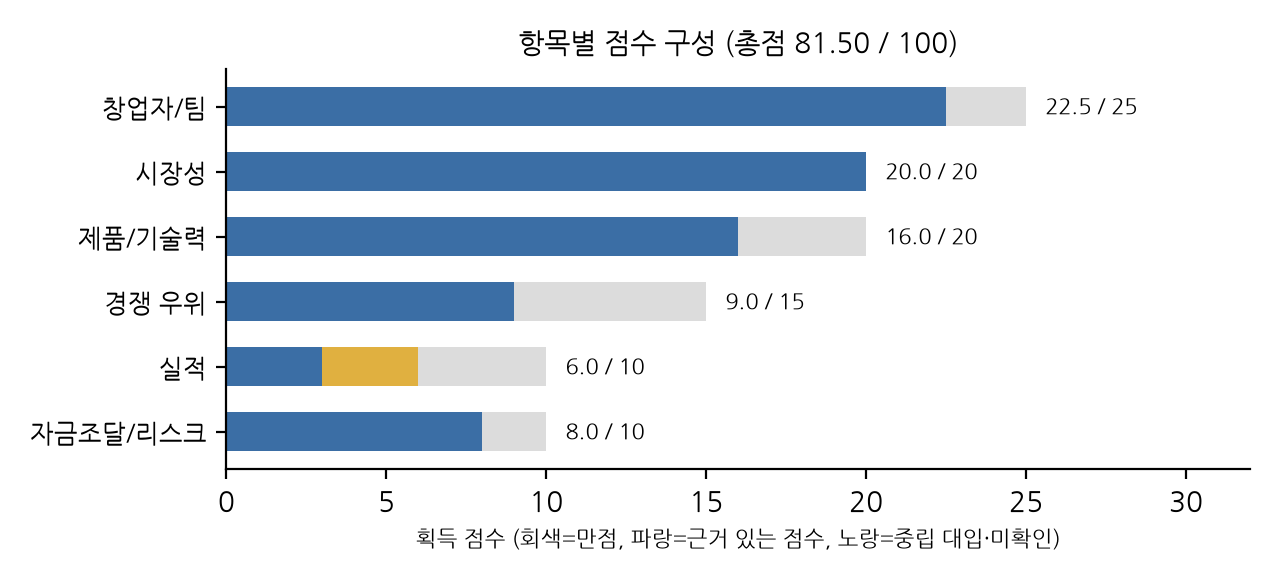
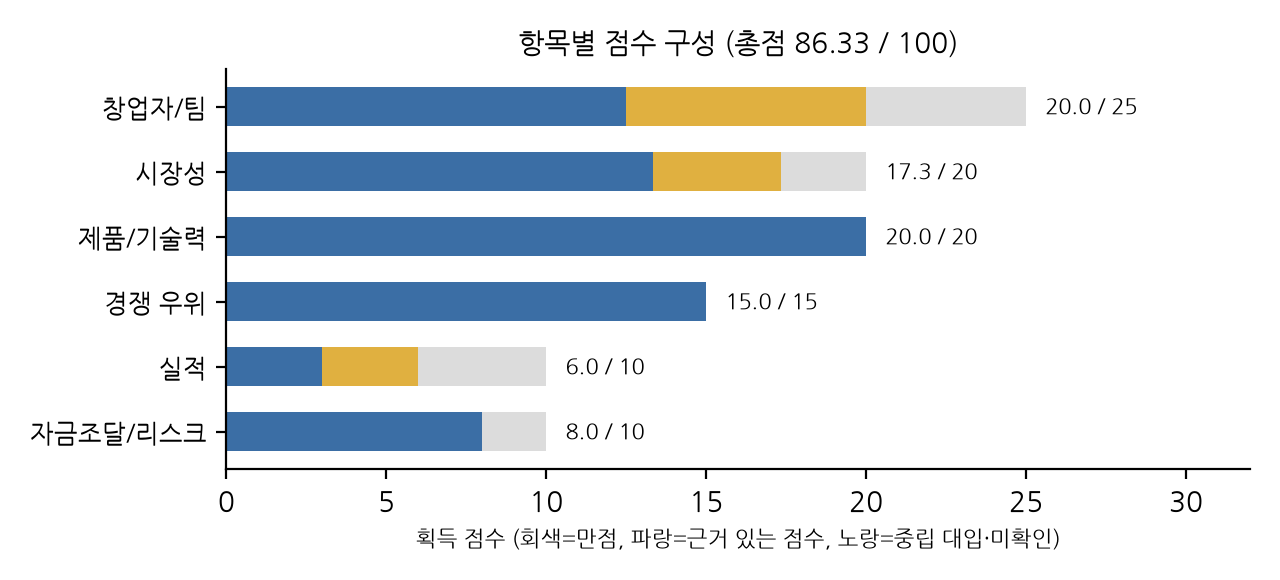
chore(outputs): sync tracked report markdown and chart with the submitted run

diff --git a/outputs/RAG-Output_울산캠퍼스-4반_박연제+이정인+정예지.md b/outputs/RAG-Output_울산캠퍼스-4반_박연제+이정인+정예지.md
@@ -1,34 +1,36 @@
 # SUMMARY
 
-**하이퍼엑셀**(대한민국, AI 칩) · 총점 **81.50/100** · 판정 **투자** · 평가 기준일 2026-09-30
+**아이에이치더블유(iHW)**(대한민국, AI 칩) · 총점 **86.33/100** · 판정 **투자** · 평가 기준일 2026-09-30
 
-하이퍼엑셀은 2023년 설립된 한국 AI 반도체 팹리스 스타트업으로, LLM 추론 특화 AI 가속기인 LPU를 개발하여 삼성 4나노 공정에서 '베르다' 칩을 양산 중이다. LPDDR5X 메모리를 활용해 엔비디아 대비 가격 1/10, 전력 사용량 1/3 수준의 전력 효율을 목표로 하며, 크래프톤 등 전략적 투자자들의 대규모 투자를 유치해 2026년 기준 약 8000억 원의 기업 가치를 인정받았다. 다만, 구체적인 성능 지표와 소프트웨어 생태계, 고객 적용 사례는 확인되지 않아 추가 검증이 필요하다. 글로벌 AI 칩 시장은 2026년 약 1,228억 달러 규모이며, 2026~2035년 연평균 28.8% 성장할 전망이다[1][2][3].
+아이에이치더블유(iHW)는 2024년 설립된 대한민국 초저전력 AI 반도체 팹리스 기업으로, 뉴로모픽 기반 아날로그 컴퓨트인메모리(ACiM) 기술을 적용한 엣지 AI 칩 양산과 LLM 칩 시제품 생산에 주력하고 있다. 2026년 시리즈A 투자 유치(약 640억 원)와 정부 지원금 확보를 통해 기술 검증과 상용화를 진행 중이며, 2027년 본격 양산을 목표로 한다. AI 반도체 시장은 글로벌 고대역폭메모리(HBM) 시장을 포함해 2022~2027년 연평균 36.3% 성장할 것으로 전망되나, iHW 타깃 시장 규모는 구체적 수치가 확인되지 않는다. iHW는 삼성전자, SK하이닉스, 인텔 출신 베테랑 인력과 51건 특허, 한국전자기술연구원과 협력 등으로 경쟁 우위를 확보했으나, 구체적 성능 지표와 소프트웨어 생태계 정보는 미공개다. 총점 86.33점으로 투자 적합 판정을 받았다.[1][2][3][4][5]
 
 ## 1. 기업 및 사업 개요
 
-하이퍼엑셀은 대한민국의 AI 반도체 팹리스 스타트업으로, 2026년 기준 시리즈 B 투자 라운드를 완료했으며 총 2000억 원 규모의 자금을 확보했다. 주요 전략적 투자자로 크래프톤이 참여했으며, 기업 가치는 약 8000억 원(약 593백만 달러)으로 평가받고 있다. 핵심 제품은 LLM 추론에 특화된 AI 가속기 LPU로, 삼성전자 4나노 공정에서 '베르다' 칩을 양산 중이다. LPDDR5X 메모리를 활용해 비용과 전력 효율을 크게 개선하는 기술적 강점을 보유하고 있다. 다만, 구체적인 칩 성능 수치와 소프트웨어 생태계, 고객 적용 사례는 공개되지 않아 추가 검증이 필요하다[1][2].
+아이에이치더블유(iHW)는 2024년 대한민국에서 설립된 초저전력 AI 반도체 팹리스 기업이다. 뉴로모픽 기반 아날로그 컴퓨트인메모리(ACiM) 기술을 핵심으로 하여, 단일 칩으로 외장 메모리 없이 작동하는 엣지 AI 칩과 LLM 칩 시제품을 개발 중이다. 2026년 시리즈A 투자 유치와 정부 지원금 1000만 달러 이상 확보를 통해 기술 검증과 상용화를 추진하며, 2027년 본격 양산을 목표로 한다. 회사는 삼성전자, SK하이닉스, 인텔 출신 베테랑 임원과 엔지니어들이 주축이며, 한국전자기술연구원과 협력해 휴머노이드 저전력 SoC 공동 개발을 진행 중이다. 구체적인 칩 성능 지표와 소프트웨어 생태계에 대한 정보는 확인되지 않았다.[1][5]
 
 ## 2. 팀·기술 및 제품 경쟁력
 
-창업자는 KAIST 전기전자공학부 교수 출신으로, 2012년부터 2019년까지 마이크로소프트에서 하드웨어 엔지니어로 근무한 경험이 있다. 이후 KAIST에서 석박사 연구생들과 함께 하이퍼엑셀을 창업해 상업화 및 고객 현장 경험이 충분하다. 기술적으로는 LLM 추론에 특화된 LPU를 개발했으며, 고대역폭 메모리 대신 저전력 LPDDR5X 메모리를 사용해 엔비디아 대비 가격 1/10, 전력 사용량 1/3 수준의 전력 효율을 목표로 한다. 삼성 4나노 공정에서 500㎟ 이상의 대형 칩을 양산 중이며, 크래프톤 등 전략적 투자자들의 대규모 투자를 통해 안정적 자금 확보와 수요처 확보가 기대된다. 다만, 구체적인 성능 지표와 소프트웨어 생태계, 고객 PoC 정보는 확인되지 않아 추가 검증이 필요하다[2][4][5].
+iHW는 삼성전자, SK하이닉스, 인텔 등 글로벌 반도체 기업 출신 베테랑 임원과 엔지니어들이 2024년 6월 설립한 팀으로, 상용화 경험과 고객 현장 경험이 풍부하다. 기술적으로는 뉴로모픽 컴퓨팅 방식의 아날로그 컴퓨트인메모리(ACiM) 기술을 적용해 기존 디지털 NPU 대비 전력 소비와 발열 문제를 극복하는 독자적 기술을 보유하고 있다. 단일 칩으로 외장 메모리 없이 작동하며, 성숙 공정에서도 구현 가능해 제조 비용 절감과 냉각장치 없이 시스템 구성이 가능하다. 51건의 특허(등록 19건)를 보유하고 있으며, 자체 컴파일러·SDK·제품 스택을 개발 중이다. 한국전자기술연구원과 협력해 휴머노이드 저전력 SoC 기술을 공동 개발하며 기술 검증과 상용화를 진행 중이다. 정부 지원금 1000만 달러 이상 확보 및 국책 연구 과제 수행으로 기술 신뢰성을 높이고 있다. 다만, 구체적인 칩 성능(TOPS, 전력효율)과 소프트웨어 생태계 정보는 공개되지 않았다.[1][3][4][5]
 
 ## 3. 시장성 및 경쟁 환경
 
-글로벌 AI 칩 시장은 2026년 약 1,228억 달러 규모이며, 2026년부터 2035년까지 연평균 28.8%의 고성장이 예상된다. 주요 수요처는 데이터센터용 GPU와 엣지용 맞춤형 AI 반도체이며, NVIDIA가 데이터센터 GPU 시장을 92% 점유하는 등 시장을 주도한다. 국내외에서는 정부의 대규모 R&D 투자와 공공분야 국산 NPU 도입 정책이 수요를 촉진하고 있다. 하이퍼엑셀은 국내 AI 반도체 팹리스 스타트업 중 퓨리오사AI, 리벨리온, 넥스트리벨리온과 경쟁하며, LLM 추론 특화 LPU 개발과 삼성 4나노 공정 양산, LPDDR5X 메모리 활용으로 비용과 전력 효율을 크게 개선한 점이 기술적 강점이다. 크래프톤 등 전략적 투자자들의 대규모 투자 유치로 기업 가치가 약 8000억 원에 달한다. 다만, 구체적 성능 지표와 소프트웨어 생태계, 고객 적용 사례는 공개되지 않아 추가 검증이 필요하며, 경쟁사와의 상세 비교 데이터는 부족하다[3][6][7][8].
+iHW는 뉴로모픽 기반 아날로그 컴퓨트인메모리(ACiM) 기술을 적용해 단일 칩으로 외장 메모리 없이 작동하며, 발열이 적고 성숙 공정에서도 구현 가능한 점에서 차별화된다. 2026년 시리즈A 투자 유치와 정부 지원금 확보를 통해 기술 검증과 상용화를 진행 중이며, 2027년 본격 양산을 목표로 한다. 경쟁사로는 미국 Achronix, Syntiant, Mythic, 프랑스 GreenWaves Technologies 등이 있으나, iHW는 아날로그 뉴로모픽 기술과 특허, 인력, 파트너십에서 진입장벽을 형성하고 있다. 다만 구체적인 성능 지표와 소프트웨어 생태계 정보는 공개되지 않아 비교 근거가 부족하다. 기존 디지털 NPU 대비 전력 소비와 발열 문제를 극복하는 점에서 경쟁 우위를 가진다.[3][5]
 
 **시장 지표**
 
 | 기업 | 목표 시장 규모 | 규모 범위·기준 | 목표 시장 CAGR | CAGR 범위·기간 |
 |---|---|---|---|---|
-| 하이퍼엑셀 | 약 $122.8B [3] | 글로벌, 2026년 기준 | 28.8% [3] | 글로벌, 2026-2035년 |
+| 아이에이치더블유(iHW) | 중립 대입·미확인 | - | 36.3% [2] | 글로벌, 2022-2027년, HBM 포함 |
 
 **경쟁사 비교**
 
 | 경쟁사 | 국가 | 비교 |
 |---|---|---|
-| 퓨리오사AI | 대한민국 | 하이퍼엑셀과 동일한 AI 반도체 팹리스 분야에서 경쟁하나, 구체적 비교 데이터는 부족함 |
-| 리벨리온 | 대한민국 | 하이퍼엑셀과 동일 시장 내 경쟁자이나 상세 비교 데이터는 부족함 |
-| 넥스트리벨리온 | 대한민국 | 하이퍼엑셀과 유사한 AI 반도체 팹리스 스타트업으로 평가됨 |
+| iHW | South Korea | 기존 디지털 NPU 대비 전력 소비와 발열 문제를 극복하는 뉴로모픽 ACiM 기술 보유, 구체적 성능 지표… |
+| Achronix | USA | iHW와 달리 디지털 FPGA 기반으로 전력 효율성은 상대적으로 낮음, 엣지 AI보다는 고성능 컴퓨팅에 집중 |
+| GreenWaves Technologies | France | iHW와 유사하게 저전력 엣지 AI에 집중하나, 아날로그 컴퓨트 기술은 미보유 |
+| Syntiant | USA | iHW와 유사한 뉴로모픽 아날로그 기술 보유, 다만 iHW는 LLM 칩 시제품 생산에 주력 |
+| Mythic | USA | iHW와 유사한 아날로그 컴퓨트 인 메모리 기술 보유, iHW는 성숙 공정 구현과 발열 저감에 강점 |
 
 ## 4. 투자 판단 및 주요 리스크
 
@@ -38,48 +40,50 @@
 
 | 항목 | 지표 | 원값 | 점수 | 판단 근거 |
 |---|---|---|---|---|
-| 창업자/팀 | 핵심 인력 반도체 경력 | 창업자는 김주영 KAIST 전기전자공학부 교수다.… | 5 | 창업자가 KAIST 전기전자공학부 교수이며 마이크로소프트 하드웨어 엔지니어 경력 보유로 상업화 및 고객 현… [4] |
-| 창업자/팀 | 기술 인력 수 | 50 | 4 | 정량·범주 구간 규칙 적용 [5] |
-| 시장성 | 목표 시장 규모 | 약 $122.8B | 5 | 정량·범주 구간 규칙 적용 [3] |
-| 시장성 | 목표 시장 CAGR | 28.8% | 5 | 정량·범주 구간 규칙 적용 [3] |
-| 시장성 | 수요처 명확성 | - | 5 | 국내외 AI반도체 시장 및 정책, 공공 및 민간 수요 창출 계획 등 구체적이고 명확한 수요 근거가 제시되어… [9] |
+| 창업자/팀 | 핵심 인력 반도체 경력 | 삼성전자, SK하이닉스, 인텔 등 글로벌 반도체 … | 5 | 삼성전자, SK하이닉스, 인텔 등 글로벌 반도체 기업 출신 베테랑 임원과 엔지니어들이 주축으로 2024년 … [5] |
+| 창업자/팀 | 기술 인력 수 | - | 3 (중립 대입·미확인) | 평가 가능한 공개 근거가 확인되지 않음 |
+| 시장성 | 목표 시장 규모 | - | 3 (중립 대입·미확인) | 근거는 있으나 설계 기준에 맞는 값·단위·범주를 확정할 수 없음 |
+| 시장성 | 목표 시장 CAGR | 36.3% | 5 | 정량·범주 구간 규칙 적용 [2] |
+| 시장성 | 수요처 명확성 | - | 5 | AI반도체가 데이터센터에서 스마트폰, PC, 자동차, 소비자가전, IoT 등 엣지 디바이스로 확대되며 구체… [2] |
 | 제품/기술력 | 개발 단계 | 양산 | 5 | 정량·범주 구간 규칙 적용 [1] |
-| 제품/기술력 | 기술 독창성 | LPDDR5X 메모리를 사용하여 엔비디아 대비 가… | 3 | LPDDR5X 메모리를 활용해 가격과 전력 효율을 크게 개선하는 기술을 주장하나, 검증된 비교 데이터는 부… [2] |
-| 경쟁 우위 | 동종 대비 차별성 | 하이퍼엑셀은 LLM 추론에 특화된 LPU를 개발하… | 3 | 비용과 전력 효율 개선을 주장하나 구체적 성능 지표 및 소프트웨어 생태계, 고객 적용 사례는 확인되지 않아… [6] |
-| 경쟁 우위 | 진입장벽 | 칩 IP·특허: 확인 | 3 | 칩 IP·특허와 파운드리 및 전략적 투자자 확보는 확인되나, 자체 소프트웨어 생태계는 부재로 완전한 진입장… [6] |
-| 실적 | 고객·PoC·계약 수 | 2 | 3 | 정량·범주 구간 규칙 적용 [2] |
+| 제품/기술력 | 기술 독창성 | 뉴로모픽 컴퓨팅 방식의 아날로그 컴퓨트인메모리(A… | 5 | 뉴로모픽 컴퓨팅 방식의 아날로그 컴퓨트인메모리(ACiM) 기술을 적용하여 기존 디지털 NPU 대비 전력 소… [1] |
+| 경쟁 우위 | 동종 대비 차별성 | iHW는 뉴로모픽 기반 아날로그 컴퓨트인메모리(A… | 5 | 뉴로모픽 기반 ACiM 기술로 단일 칩 외장 메모리 없이 작동하며 발열이 적고 성숙 공정 구현 가능해 기존… [3] |
+| 경쟁 우위 | 진입장벽 | 칩 IP·특허: 확인 | 5 | 51건의 특허 보유, 자체 컴파일러·SDK·제품 스택 개발, 삼성전자·SK하이닉스·Intel 출신 베테랑 … [4] |
+| 실적 | 고객·PoC·계약 수 | 2 | 3 | 정량·범주 구간 규칙 적용 [5] |
 | 실적 | 매출 발생 | - | 3 (중립 대입·미확인) | 평가 가능한 공개 근거가 확인되지 않음 |
-| 자금조달/리스크 | 누적 투자 유치액 | 약 610억 원 | 3 | 정량·범주 구간 규칙 적용 [4] |
-| 자금조달/리스크 | 위험 완화 | 글로벌 시장에서 경쟁력을 인정받아 AMD 등 주요… | 5 | 글로벌 협업과 투자 유치, 양산 단계 진입 등 주요 리스크를 효과적으로 완화하고 있다. [4] |
+| 자금조달/리스크 | 누적 투자 유치액 | 약 640억 원 | 3 | 정량·범주 구간 규칙 적용 [5] |
+| 자금조달/리스크 | 위험 완화 | 초저전력 AI 반도체 기술로 냉각장치 없이 배터리… | 5 | 초저전력 AI 반도체 기술로 냉각장치 없이 배터리로 수개월 작동 가능하며 정부 지원금 확보, 국책 연구 과… [4] |
 
-**판단 사유**: 총점 81.50점, 결측 1개, 선정 불확실성 없음으로 세 가지 투자 조건을 모두 충족
+**판단 사유**: 총점 86.33점, 결측 3개, 선정 불확실성 없음으로 세 가지 투자 조건을 모두 충족
 
-**결측·선정 불확실성**: 결측 1개(매출 발생)는 3점이 **중립 대입·미확인**로 계산되었으며 근거 있는 3점과 구분한다.
+**결측·선정 불확실성**: 결측 3개(기술 인력 수, 목표 시장 규모, 매출 발생)는 3점이 **중립 대입·미확인**로 계산되었으며 근거 있는 3점과 구분한다.
 
 ### 주요 리스크
 
-- **시장**: AI 반도체 시장은 엔비디아 중심의 경쟁 심화, 지정학적 리스크, 공급망 제약, 소프트웨어 및 생태계 호환성 문제가 존재한다. 국내외에서는 정부의 대규모 R&D 투자와 공공분야 국산 NPU 도입 정책이 수요를 촉진하고 있으나, 수요처와 시장 위험에 대한 구체적 데이터는 확인되지 않았다. 따라서 시장 리스크는 존재하나 구체적 수치와 완화 방안은 확인되지 않는다[9][10].
-- **기술**: 하이퍼엑셀은 LPDDR5X 메모리를 활용해 비용과 전력 효율을 크게 개선하는 기술을 보유하나, 구체적인 칩 성능 수치와 소프트웨어 생태계, 고객 적용 사례가 공개되지 않아 기술 검증이 미흡하다. 또한 자체 컴파일러·SDK·제품 스택이 부재해 완전한 진입장벽 구축에는 한계가 있다. 다만, 삼성 4나노 공정 파운드리 및 전략적 고객과의 핵심 파트너십을 확보해 기술적 진입장벽은 일정 부분 존재한다[2][7].
-- **규제**: AI 반도체 관련 규제 위험으로는 EU의 AI 규제법 시행과 글로벌 표준화 대응이 있으나, 하이퍼엑셀에 특화된 규제 리스크 정보는 확인되지 않았다. 국내외 AI 산업 정책과 시장 정책 확대가 진행 중이나 구체적 규제 위험 및 대응 방안은 확인되지 않는다[11].
-- **경쟁**: 국내외 AI 반도체 시장에서 엔비디아가 데이터센터 GPU 시장을 92% 점유하며 시장을 주도하고 있다. 하이퍼엑셀은 퓨리오사AI, 리벨리온, 넥스트리벨리온 등과 경쟁 중이나, 구체적 성능 비교 데이터와 소프트웨어 생태계, 고객 적용 사례가 부족해 경쟁 우위를 단정하기 어렵다. 경쟁 심화가 리스크로 작용할 수 있으나, 상세한 경쟁 리스크 수치는 확인되지 않는다[3][6][7][8].
+- **시장**: 시장 규모에 대한 구체적 수치는 확인되지 않으나, 글로벌 AI반도체 및 고대역폭메모리(HBM) 시장은 2023년부터 2028년까지 백만 달러 단위로 성장 중이며, 2023년 HBM 시장은 전년 대비 82.1% 매출 상승이 예상된다. AI반도체 시장 내 다양한 제품별 성장률도 보고되었으나 구체적 수치는 미공개다. AI반도체 주요 수요처는 데이터센터에서 스마트폰, PC, 자동차, 소비자가전, IoT 등 엣지 디바이스로 확대되고 있으며, 저전력 D램(LPDDR) 수요도 증가 중이다. 시장 위험으로는 GPU 중심 데이터센터 수요 축소, 맞춤형 AI반도체 확대, 엔비디아 주도 시장에 빅테크 및 스타트업의 탈엔비디아 전략, 국내외 정부의 대규모 투자 및 공공분야 도입 정책 등이 있다. 다만 iHW 타깃 시장 내 구체적 수요처와 리스크는 확인되지 않았다.[2][6][7]
+- **기술**: iHW는 초저전력 AI 반도체 기술로 냉각장치 없이 배터리로 수개월 작동 가능하며, 방산·로봇 환경에서 기존 디지털 NPU 대비 우수한 전력 효율 및 발열 저감 효과를 보인다. 정부 지원금 확보 및 국책 연구 과제 수행, 한국전자기술연구원과 공동 개발로 기술 검증과 상용화를 진행 중이다. 다만 구체적 칩 성능 지표와 소프트웨어 생태계 정보가 공개되지 않아 기술 완성도와 생태계 확장에 대한 불확실성이 존재한다.[1][4]
+- **규제**: 확인되지 않음
+- **경쟁**: iHW는 51건의 특허(등록 19건)와 자체 컴파일러·SDK·제품 스택, 삼성전자·SK하이닉스·Intel 출신 베테랑 인력과 한국전자기술연구원과의 협력, 정부 지원금 확보 등으로 진입장벽을 형성하고 있다. 그러나 구체적 성능 지표와 소프트웨어 생태계 정보가 미공개되어 경쟁사 대비 우위 판단에 한계가 있다. 경쟁 심화와 기술 발전 속도에 따른 시장 점유율 확보 리스크가 존재한다.[3][4][5]
+
+### 앞서 평가한 보류 후보
+
+| 보류 기업 | 총점 | 결측 | 사유 |
+|---|---|---|---|
+| 세카(SECA) | 70.67 | 5 | 보류 조건: 결측 5개 >= 5개 |
 
 ### 한계
 
-- 후보 9개를 수집해 선정 기준(A-3)에서 0개를 제외하고 1개를 평가했다. 조사 순서상 최초 투자 판정에서 종료했으므로 나머지 후보는 평가되지 않았으며, 검색 순서·후보 상한에 따라 일부 기업이 평가되지 않았을 수 있다.
+- 후보 7개를 수집해 선정 기준(A-3)에서 0개를 제외하고 2개를 평가했다. 조사 순서상 최초 투자 판정에서 종료했으므로 나머지 후보는 평가되지 않았으며, 검색 순서·후보 상한에 따라 일부 기업이 평가되지 않았을 수 있다.
 - 정량 구간은 공식 VC 표준이 아닌 프로젝트 초기 설계값이며, 누적 투자액은 조달 이력의 대리 지표(현재 자금 여력 아님)다.
 - Valuation·지분율이 비공개이므로 ROI는 산출하지 않았고, 기대 성장 여력은 시장·사업화 단계로 정성 평가했다.
 - 서로 다른 기업 유형의 원수치는 직접 비교하지 않는다.
 
 # REFERENCE
 
-1. thepublic.kr(2026-09-13). *크래프톤 500억 베팅… '넥스트 리벨리온' 하이퍼엑셀, 몸값 8000억 '껑충' < 전자/IT < LIFE ECONOMICS < 기사본문 - 더퍼블릭*. thepublic.kr, https://www.thepublic.kr/news/articleView.html?idxno=318525.
-2. demoday.co.kr(2026-06-22). *하이퍼엑셀 500억 시리즈B 분석: 크래프톤이 AI 반도체 스타트업에 베팅한 이유 | 데모데이*. demoday.co.kr, https://demoday.co.kr/funding/insights/132.
-3. researchnester.com(2026-03-06). *AI 칩 시장 규모 및 점유율, 성장 보고서 2035*. researchnester.com, https://www.researchnester.com/kr/reports/ai-chip-market/3084.
-4. thebell.co.kr(2024-12-06). *AI 반도체 '하이퍼엑셀' 펀딩 마무리, 산업은행 100억 베팅*. thebell.co.kr, https://www.thebell.co.kr/front/newsview.asp?key=202412061056061640107963.
-5. linkedin.com(2024-12-27). *AI 반도체 스타트업 하이퍼엑셀, 550억원 규모 투자 유치… “내년 삼성 4나노로 제품 양산” | Joo-Young Kim | 14 comments*. linkedin.com, https://www.linkedin.com/posts/joo-young-kim-7b227955_ai-%EB%B0%98%EB%8F%84%EC%B2%B4-%EC%8A%A4%ED%83%80%ED%8A%B8%EC%97%85-%ED%95%98%EC%9D%B4%ED%8D%BC%EC%97%91%EC%85%80-550%EC%96%B5%EC%9B%90-%EA%B7%9C%EB%AA%A8-%ED%88%AC%EC%9E%90-%EC%9C%A0%EC%B9%98-%EB%82%B4%EB%85%84-%EC%82%BC%EC%84%B1-activity-7278367590295461889-plZE.
-6. zdnet.co.kr(2026-08-26). *하이퍼엑셀, 포브스 아시아 '100 투 워치' 선정…국내 AI 반도체 최초 - ZDNet korea*. zdnet.co.kr, https://zdnet.co.kr/view?no=20260826100607.
-7. biz.chosun.com(2026-09-11). *‘넥스트 리벨리온’ 하이퍼엑셀, 크래프톤 업고 2000억 조달… 몸값 8000억 - 조선비즈*. biz.chosun.com, https://biz.chosun.com/stock/market_trend/2026/09/11/XLYMXZVELNEV7ASQ7LUGKXSSSA.
-8. wowtale.net(2024-12-26). *LLM 특화 AI 반도체 개발 ‘하이퍼엑셀’, 550억원 규모 시리즈A 투자유치 - 와우테일*. wowtale.net, https://wowtale.net/2024/12/26/235287.
-9. 정보통신정책연구원(2024). *새로운 기회의 창으로 AI반도체 시장 현황과 전망*. https://www.kisdi.re.kr/report/view.do?key=m2102058837181&masterId=4334696&arrMasterId=4334696&artId=1776660, 인용 PDF 페이지 4, 9.
-10. 관계부처 합동(2025). *AI반도체 산업 도약 전략(안)(요약본)*. https://nsp.nanet.go.kr/plan/subject/detail.do?nationalPlanControlNo=PLAN0000058703, 인용 PDF 페이지 3, 7.
-11. allinfonote.com(2025-12-11). *2025년 AI 관련 규제 시장 정책 총정리｜생성형 AI·광고 규제·산업 전략*. allinfonote.com, https://allinfonote.com/2025%EB%85%84-ai-%EA%B4%80%EB%A0%A8-%EA%B7%9C%EC%A0%9C-%EC%8B%9C%EC%9E%A5-%EC%A0%95%EC%B1%85-%EC%B4%9D%EC%A0%95%EB%A6%AC.
+1. economist.co.kr(2026-08-19). *이코노미스트 - 초저전력 AI 반도체 팹리스 iHW, 520억 규모 시리즈A 실탄 확보*. economist.co.kr, https://economist.co.kr/article/view/ecn202608190042.
+2. 정보통신정책연구원(2024). *새로운 기회의 창으로 AI반도체 시장 현황과 전망*. https://www.kisdi.re.kr/report/view.do?key=m2102058837181&masterId=4334696&arrMasterId=4334696&artId=1776660, 인용 PDF 페이지 7, 8, 9.
+3. wowtale.net(2026-08-19). *iHW, 520억원 시리즈A 투자 유치…초저전력 AI 반도체 사업 가속화 - 와우테일*. wowtale.net, https://wowtale.net/2026/08/19/263123.
+4. demoday.co.kr(2026-08-20). *아이에이치더블유 520억 시리즈A 분석: 메모리에서 바로 연산하는 ACiM으로 NPU를 넘는다 | 데모데이*. demoday.co.kr, https://demoday.co.kr/funding/insights/178.
+5. aitimes.com(2026-09-23). *iHW, 520억 규모 시리즈A 투자 유치…'초저전력 AI 반도체' 상용화 가속 < 보도자료 < AI 기업 < AI산업 < 기사본문 - AI타임스*. aitimes.com, https://www.aitimes.com/news/articleView.html?idxno=214115.
+6. 관계부처 합동(2025). *AI반도체 산업 도약 전략(안)(요약본)*. https://nsp.nanet.go.kr/plan/subject/detail.do?nationalPlanControlNo=PLAN0000058703, 인용 PDF 페이지 3.
+7. hankookilbo.com(2026-08-19). *저전력 AI 반도체 만드는 iHW, 520억 원 투자 유치-경제ㅣ한국일보*. hankookilbo.com, https://www.hankookilbo.com/news/article/A2026081915440002141.
